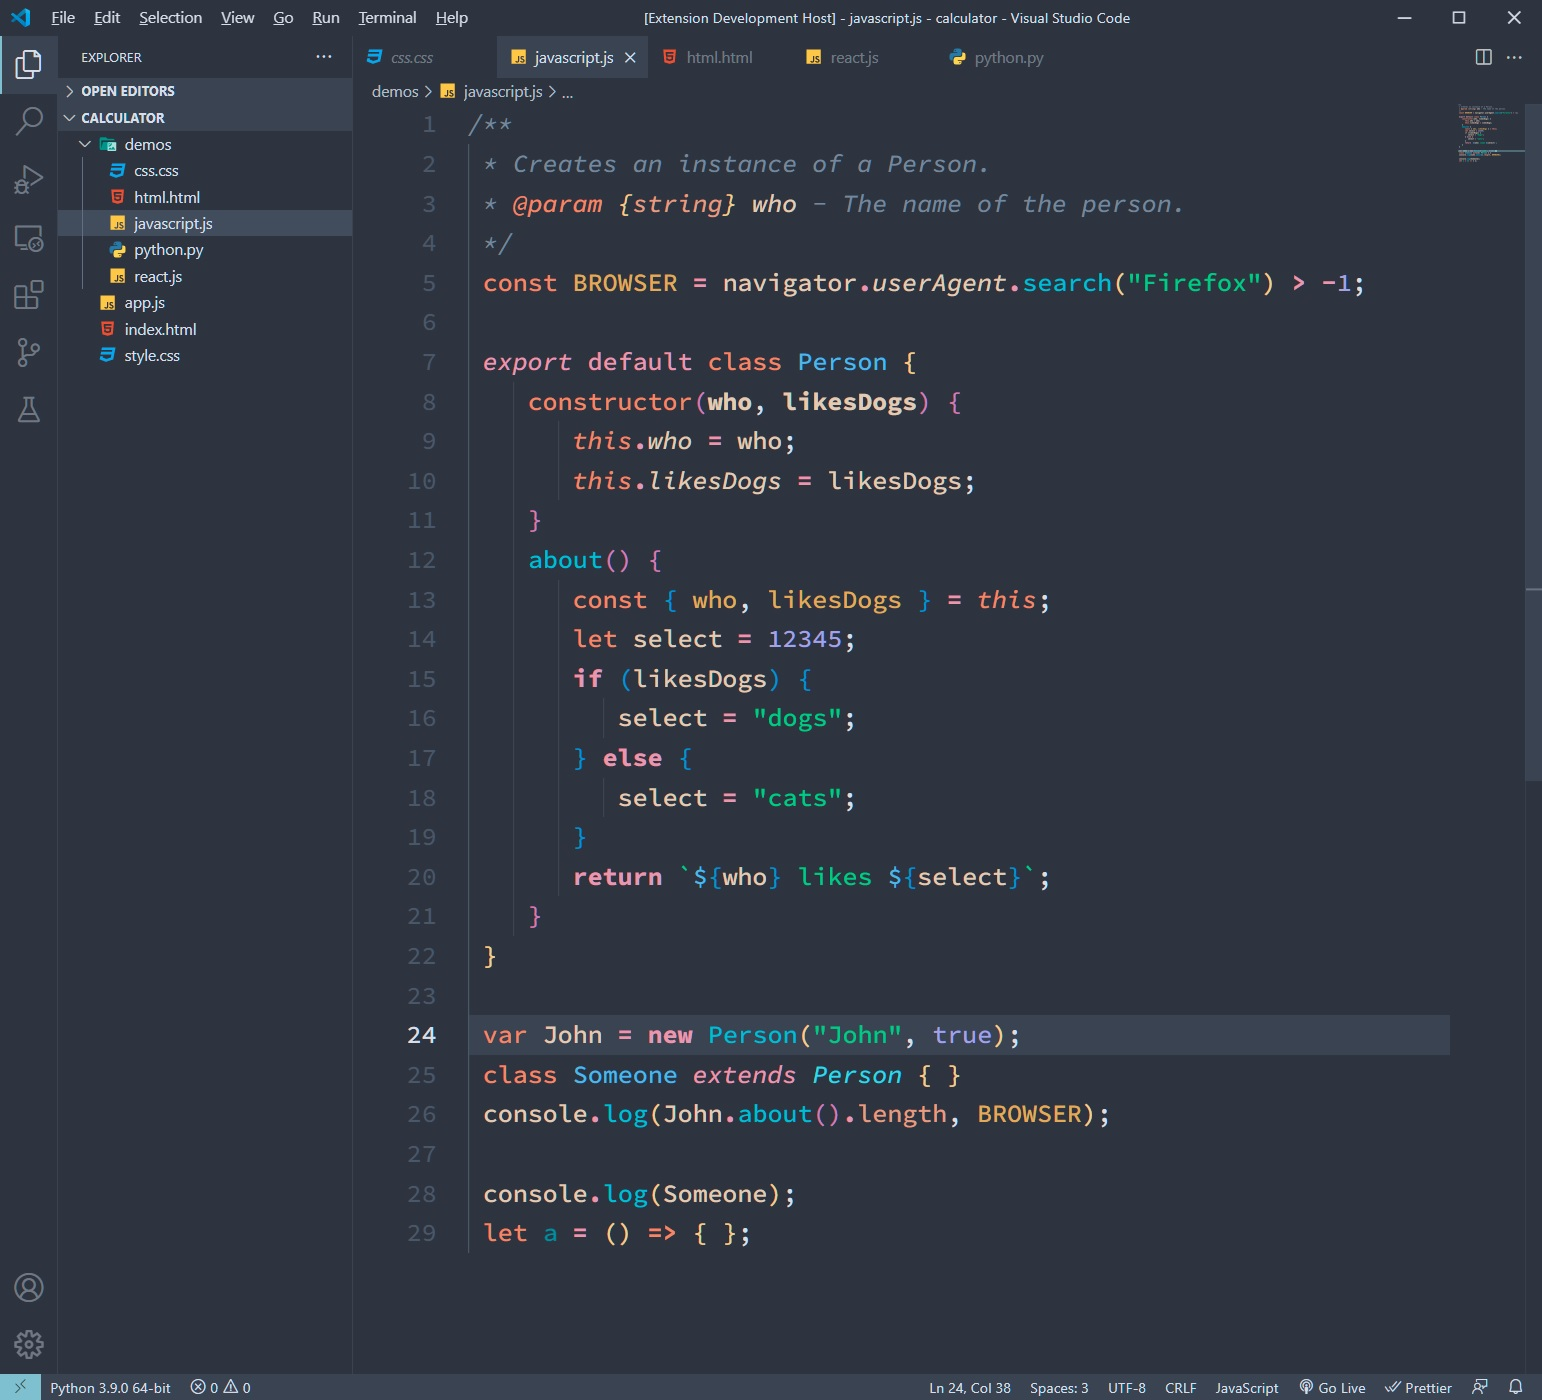
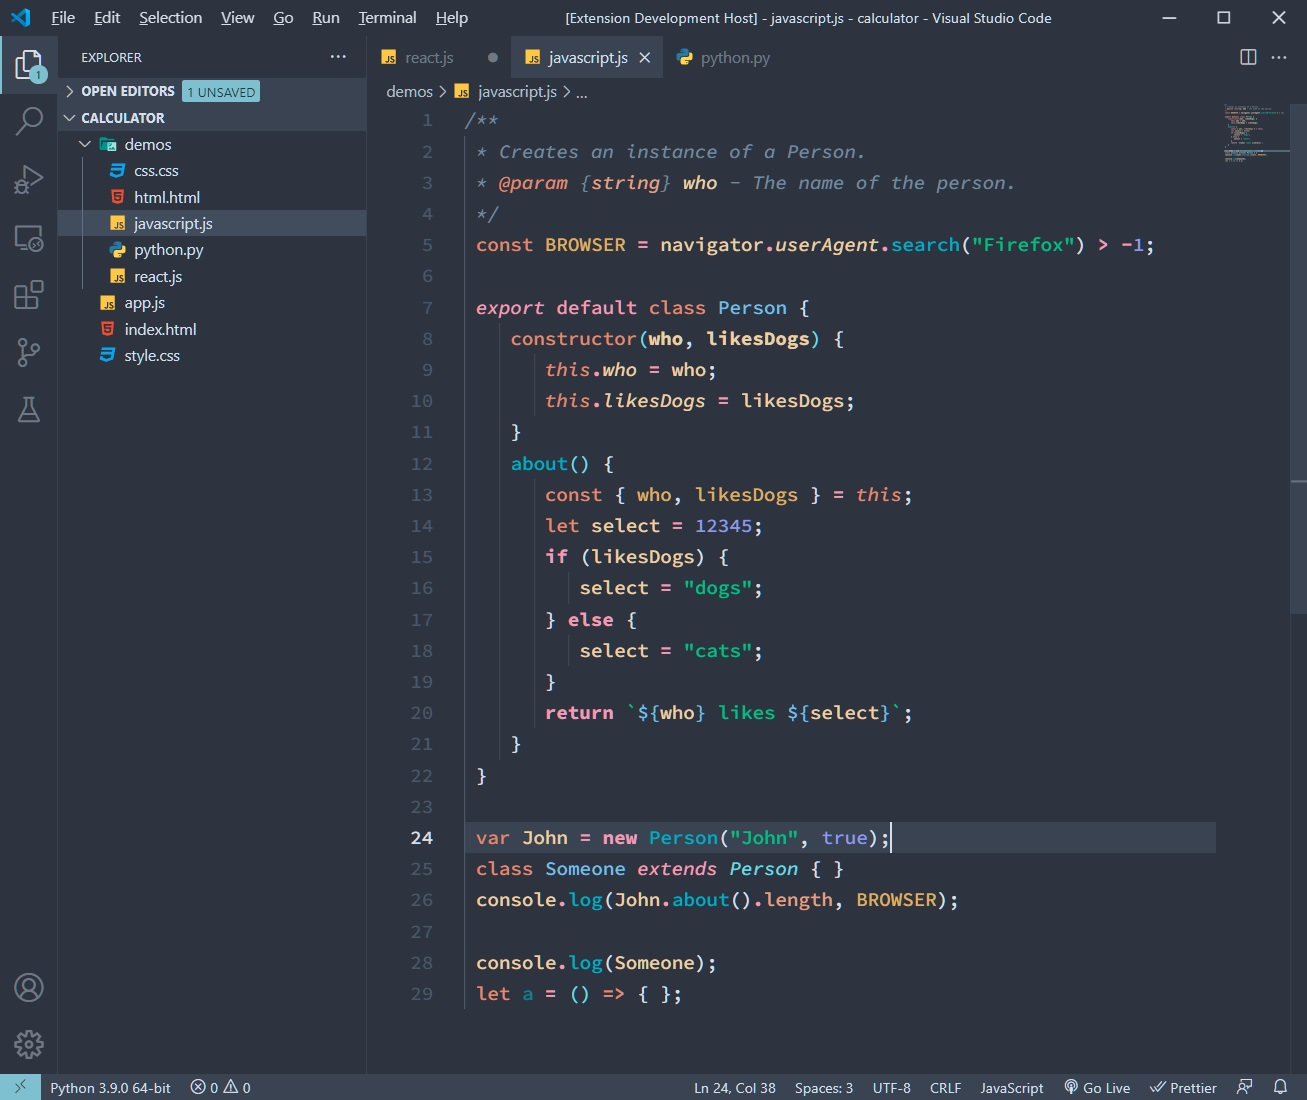
syntax color fine tuning

diff --git a/CHANGELOG.md b/CHANGELOG.md
@@ -4,6 +4,9 @@ All notable changes to the "arctis" extension will be documented in this file.
 
 Check [Keep a Changelog](http://keepachangelog.com/) for recommendations on how to structure this file.
 
+## [0.0.6] - 09-06-2021
+- Fine tuned the syntax colors a little more. Some colors seemed to attract too much focus.
+
 ## [0.0.5] - 09-05-2021
 - More tweaks. Someday I'll make up my mind, sorry if you have to keep updating it!
 

diff --git a/README.md b/README.md
@@ -18,7 +18,7 @@ Keeping accessibility in mind, all syntax colors maintain at least WCAG 4.5:1 mi
 ### **Python**  
 ![html](python.jpg)
 
-## Now includes themed colors for the new built-in bracket pair highlighter (shown in screenshots). Enable the following to use:
+## Includes themed colors for the new built-in bracket pair highlighter. Enable the following to use:
 ```
 "editor.bracketPairColorization.enabled": true,
 ```
